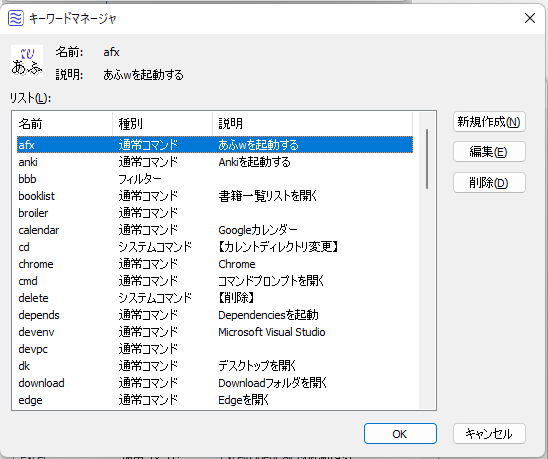
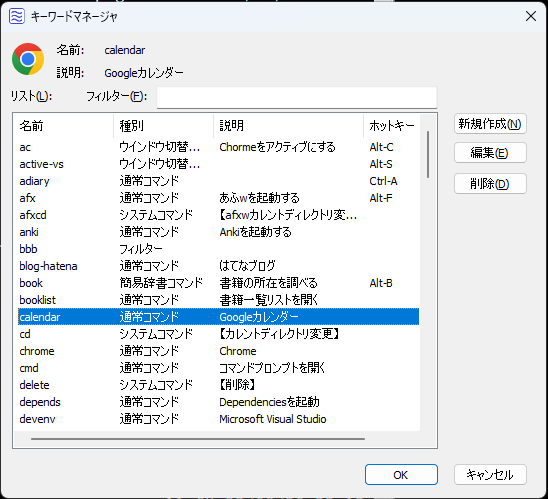
キーワードマネージャにフィルタリング機能を追加

Changed region(s): [[0.0, 0.0, 1.0, 1.0], [0.6515, 0.549, 0.7135, 0.5795]]

diff --git a/soyokaze/gui/KeywordManagerDialog.cpp b/soyokaze/gui/KeywordManagerDialog.cpp
@@ -42,11 +42,19 @@ struct KeywordManagerDialog::PImpl
 {
 	void SortCommands();
 
+	Command* GetItem(int index) {
+		ASSERT(0 <= index && index < mShowCommands.size()); 
+		return mShowCommands[index];
+	}
+
 	CString mName;
 	CString mDescription;
 
+	CString mFilterStr;
+
 	std::vector<Command*> mCommands;
 	Command* mSelCommand;
+	std::vector<Command*> mShowCommands;
 
 	CListCtrl mListCtrl;
 	std::unique_ptr<IconLabel> mIconLabelPtr;
@@ -127,9 +135,11 @@ void KeywordManagerDialog::DoDataExchange(CDataExchange* pDX)
 	CDialogEx::DoDataExchange(pDX);
 	DDX_Text(pDX, IDC_STATIC_NAME, in->mName);
 	DDX_Text(pDX, IDC_STATIC_DESCRIPTION, in->mDescription);
+	DDX_Text(pDX, IDC_EDIT_FILTER, in->mFilterStr);
 }
 
 BEGIN_MESSAGE_MAP(KeywordManagerDialog, CDialogEx)
+	ON_EN_CHANGE(IDC_EDIT_FILTER, OnEditFilterChanged)
 	ON_COMMAND(IDC_BUTTON_NEW, OnButtonNew)
 	ON_COMMAND(IDC_BUTTON_EDIT, OnButtonEdit)
 	ON_COMMAND(IDC_BUTTON_DELETE, OnButtonDelete)
@@ -194,18 +204,12 @@ BOOL KeywordManagerDialog::OnInitDialog()
 
 void KeywordManagerDialog::ResetContents()
 {
-	// 更新前の選択位置を覚えておく
-	int selItemIndex = -1;
-	POSITION pos = in->mListCtrl.GetFirstSelectedItemPosition();
-	if (pos) {
-		selItemIndex = in->mListCtrl.GetNextSelectedItem(pos);
-	}
-
 	// 以前のアイテムを解放
 	for (auto& cmd : in->mCommands) {
 		cmd->Release();
 	}
 	in->mCommands.clear();
+	in->mShowCommands.clear();
 
 	// コマンド一覧を取得する
 	auto cmdRepoPtr = soyokaze::core::CommandRepository::GetInstance();
@@ -217,20 +221,7 @@ void KeywordManagerDialog::ResetContents()
 	// 現在のソート方法に従って要素をソート
 	in->SortCommands();
 
-	// アイテム数を設定
-	in->mListCtrl.SetItemCountEx((int)in->mCommands.size());
-
-	// 選択状態の更新
-	int itemIndex = 0;
-	for (auto& cmd : in->mCommands) {
-		bool isSelItem = itemIndex== selItemIndex;
-		if (isSelItem) {
-			in->mSelCommand = cmd;
-		}
-		in->mListCtrl.SetItemState(itemIndex, isSelItem ? LVIS_SELECTED | LVIS_FOCUSED : 0, LVIS_SELECTED | LVIS_FOCUSED);
-		itemIndex++;
-	}
-	in->mListCtrl.Invalidate();
+	UpdateListItems();
 }
 
 bool KeywordManagerDialog::UpdateStatus()
@@ -244,12 +235,12 @@ bool KeywordManagerDialog::UpdateStatus()
 
 	// 選択状態を見て選択中のコマンドを決定
 	int itemIndex = 0;
-	for (auto& cmd : in->mCommands) {
+	for (auto& cmd : in->mShowCommands) {
 		UINT mask = in->mListCtrl.GetItemState(itemIndex, LVIS_SELECTED | LVIS_FOCUSED);
 		bool isSelItem = mask != 0;
 
 		if (isSelItem) {
-			in->mSelCommand = in->mCommands[itemIndex];
+			in->mSelCommand = in->mShowCommands[itemIndex];
 		}
 
 		itemIndex++;
@@ -279,6 +270,76 @@ bool KeywordManagerDialog::UpdateStatus()
 	btnDel->EnableWindow(TRUE);
 
 	return true;
+}
+
+void KeywordManagerDialog::UpdateListItems()
+{
+	// 更新前の選択位置を覚えておく
+	int selItemIndex = -1;
+	POSITION pos = in->mListCtrl.GetFirstSelectedItemPosition();
+	if (pos) {
+		selItemIndex = in->mListCtrl.GetNextSelectedItem(pos);
+	}
+
+	// 空白でばらす
+	std::vector<CString> tokens;
+	int n = 0;
+	CString tok = in->mFilterStr.Tokenize(_T(" "), n);
+	while(tok.IsEmpty() == FALSE) {
+		tokens.push_back(tok);
+		tok = in->mFilterStr.Tokenize(_T(" "), n);
+	}
+
+	if (tokens.size() > 0) {
+		in->mShowCommands.clear();
+		for (auto& cmd : in->mCommands) {
+			auto name = cmd->GetName();
+			auto desc = cmd->GetDescription();
+			auto typeName = cmd->GetTypeDisplayName();
+
+			bool shouldShow = false;
+			for (auto& tok : tokens) {
+				if (name.Find(tok) == -1 && desc.Find(tok) == -1 && typeName.Find(tok) == -1) {
+					continue;
+				}
+				shouldShow = true;
+				break;
+			}
+
+			if (shouldShow == false) {
+				continue;
+			}
+			in->mShowCommands.push_back(cmd);
+		}
+	}
+	else {
+		in->mShowCommands = in->mCommands;
+	}
+
+	ASSERT(in->mShowCommands.size() <= in->mCommands.size());
+
+	// アイテム数を設定
+	int visibleItems = (int)(in->mShowCommands.size());
+	in->mListCtrl.SetItemCountEx(visibleItems);
+
+	// 選択状態の更新
+	int itemIndex = 0;
+	for (auto& cmd : in->mShowCommands) {
+
+		bool isSelItem = itemIndex== selItemIndex;
+		if (isSelItem) {
+			in->mSelCommand = cmd;
+		}
+		in->mListCtrl.SetItemState(itemIndex, isSelItem ? LVIS_SELECTED | LVIS_FOCUSED : 0, LVIS_SELECTED | LVIS_FOCUSED);
+		itemIndex++;
+	}
+	in->mListCtrl.Invalidate();
+}
+
+void KeywordManagerDialog::OnEditFilterChanged()
+{
+	UpdateData();
+	UpdateListItems();
 }
 
 void KeywordManagerDialog::OnButtonNew()
@@ -384,7 +445,7 @@ void KeywordManagerDialog::OnHeaderClicked(NMHDR *pNMHDR, LRESULT *pResult)
 
 	// 選択状態の更新
 	int itemIndex = 0;
-	for (auto& cmd : in->mCommands) {
+	for (auto& cmd : in->mShowCommands) {
 			bool isSelItem = cmd == in->mSelCommand;
 			in->mListCtrl.SetItemState(itemIndex, isSelItem ? LVIS_SELECTED | LVIS_FOCUSED : 0, LVIS_SELECTED | LVIS_FOCUSED);
 			itemIndex++;
@@ -412,28 +473,28 @@ void KeywordManagerDialog::OnGetDispInfo(
 		if (pDispInfo->item.iSubItem == COL_CMDNAME) {
 			// 1列目(コマンド名)のデータをコピー
 			if (0 <= itemIndex && itemIndex < in->mCommands.size()) {
-				auto cmd = in->mCommands[itemIndex];
+				auto cmd = in->GetItem(itemIndex);
 				_tcsncpy_s(pItem->pszText, pItem->cchTextMax, cmd->GetName(), _TRUNCATE);
 			}
 		}
 		else if (pDispInfo->item.iSubItem == COL_CMDTYPE) {
 			// 説明列のデータをコピー
 			if (0 <= itemIndex && itemIndex < in->mCommands.size()) {
-				auto cmd = in->mCommands[itemIndex];
+				auto cmd = in->GetItem(itemIndex);
 				_tcsncpy_s(pItem->pszText, pItem->cchTextMax, cmd->GetTypeDisplayName(), _TRUNCATE);
 			}
 		}
 		else if (pDispInfo->item.iSubItem == COL_DESCRIPTION) {
 			// 説明列のデータをコピー
 			if (0 <= itemIndex && itemIndex < in->mCommands.size()) {
-				auto cmd = in->mCommands[itemIndex];
+				auto cmd = in->GetItem(itemIndex);
 				_tcsncpy_s(pItem->pszText, pItem->cchTextMax, cmd->GetDescription(), _TRUNCATE);
 			}
 		}
 		else if (pDispInfo->item.iSubItem == COL_HOTKEY) {
 			// ホットキーの文字列
 			if (0 <= itemIndex && itemIndex < in->mCommands.size()) {
-				auto cmd = in->mCommands[itemIndex];
+				auto cmd = in->GetItem(itemIndex);
 				auto mappingStr = in->mKeyMapping.FindKeyMappingString(cmd->GetName());
 				_tcsncpy_s(pItem->pszText, pItem->cchTextMax, mappingStr, _TRUNCATE);
 			}
@@ -461,18 +522,18 @@ void KeywordManagerDialog::OnFindCommand(
 	searchStr.MakeLower();
 
 	int startPos = pFindInfo->iStart;
-	if (startPos >= in->mCommands.size()) {
+	if (startPos >= in->mShowCommands.size()) {
 		startPos = 0;
 	}
 
 	int currentPos=startPos;
 
 	// 検索開始位置からリスト末尾までを探す
-	int commandCount = (int)in->mCommands.size();
+	int commandCount = (int)in->mShowCommands.size();
 	for (int i = startPos; i < commandCount; ++i) {
 
 		// コマンド名を小文字に変換したうえで前方一致比較をする
-		CString item = in->mCommands[i]->GetName();
+		CString item = in->mShowCommands[i]->GetName();
 		item.MakeLower();
 		if (item.Find(searchStr) == 0) {
 			*pResult = i;
@@ -482,7 +543,7 @@ void KeywordManagerDialog::OnFindCommand(
 	// 末尾まで行ってヒットしなかった場合は先頭から検索開始位置までを探す
 	for (int i = 0; i < startPos; ++i) {
 
-		CString item = in->mCommands[i]->GetName();
+		CString item = in->mShowCommands[i]->GetName();
 		item.MakeLower();
 
 		if (item.Find(searchStr) == 0) {

diff --git a/soyokaze/resource.h b/soyokaze/resource.h
@@ -333,6 +333,7 @@
 #define IDC_BUTTON_HOTKEY_UP            1147
 #define IDC_CHECK_WARNLONGWORKING       1148
 #define IDC_EDIT_TIME                   1149
+#define IDC_EDIT_FILTER                 1150
 
 // Next default values for new objects
 // 
@@ -340,7 +341,7 @@
 #ifndef APSTUDIO_READONLY_SYMBOLS
 #define _APS_NEXT_RESOURCE_VALUE        165
 #define _APS_NEXT_COMMAND_VALUE         32775
-#define _APS_NEXT_CONTROL_VALUE         1150
+#define _APS_NEXT_CONTROL_VALUE         1151
 #define _APS_NEXT_SYMED_VALUE           101
 #endif
 #endif

diff --git a/soyokaze/gui/KeywordManagerDialog.h b/soyokaze/gui/KeywordManagerDialog.h
@@ -17,11 +17,13 @@ protected:
 	virtual BOOL OnInitDialog();
 
 	void ResetContents();
+	void UpdateListItems();
 
 	bool UpdateStatus();
 // 実装
 protected:
 	DECLARE_MESSAGE_MAP()
+	afx_msg void OnEditFilterChanged();
 	afx_msg void OnButtonNew();
 	afx_msg void OnButtonEdit();
 	afx_msg void OnButtonDelete();

diff --git a/CHANGELOG.md b/CHANGELOG.md
@@ -2,7 +2,9 @@
 
 ## [Unreleased]
 
-なし
+## Channaged
+
+- キーワードマネージャーにフィルタリング機能を追加
 
 ## [0.18.1] - 2024-04-09
 
